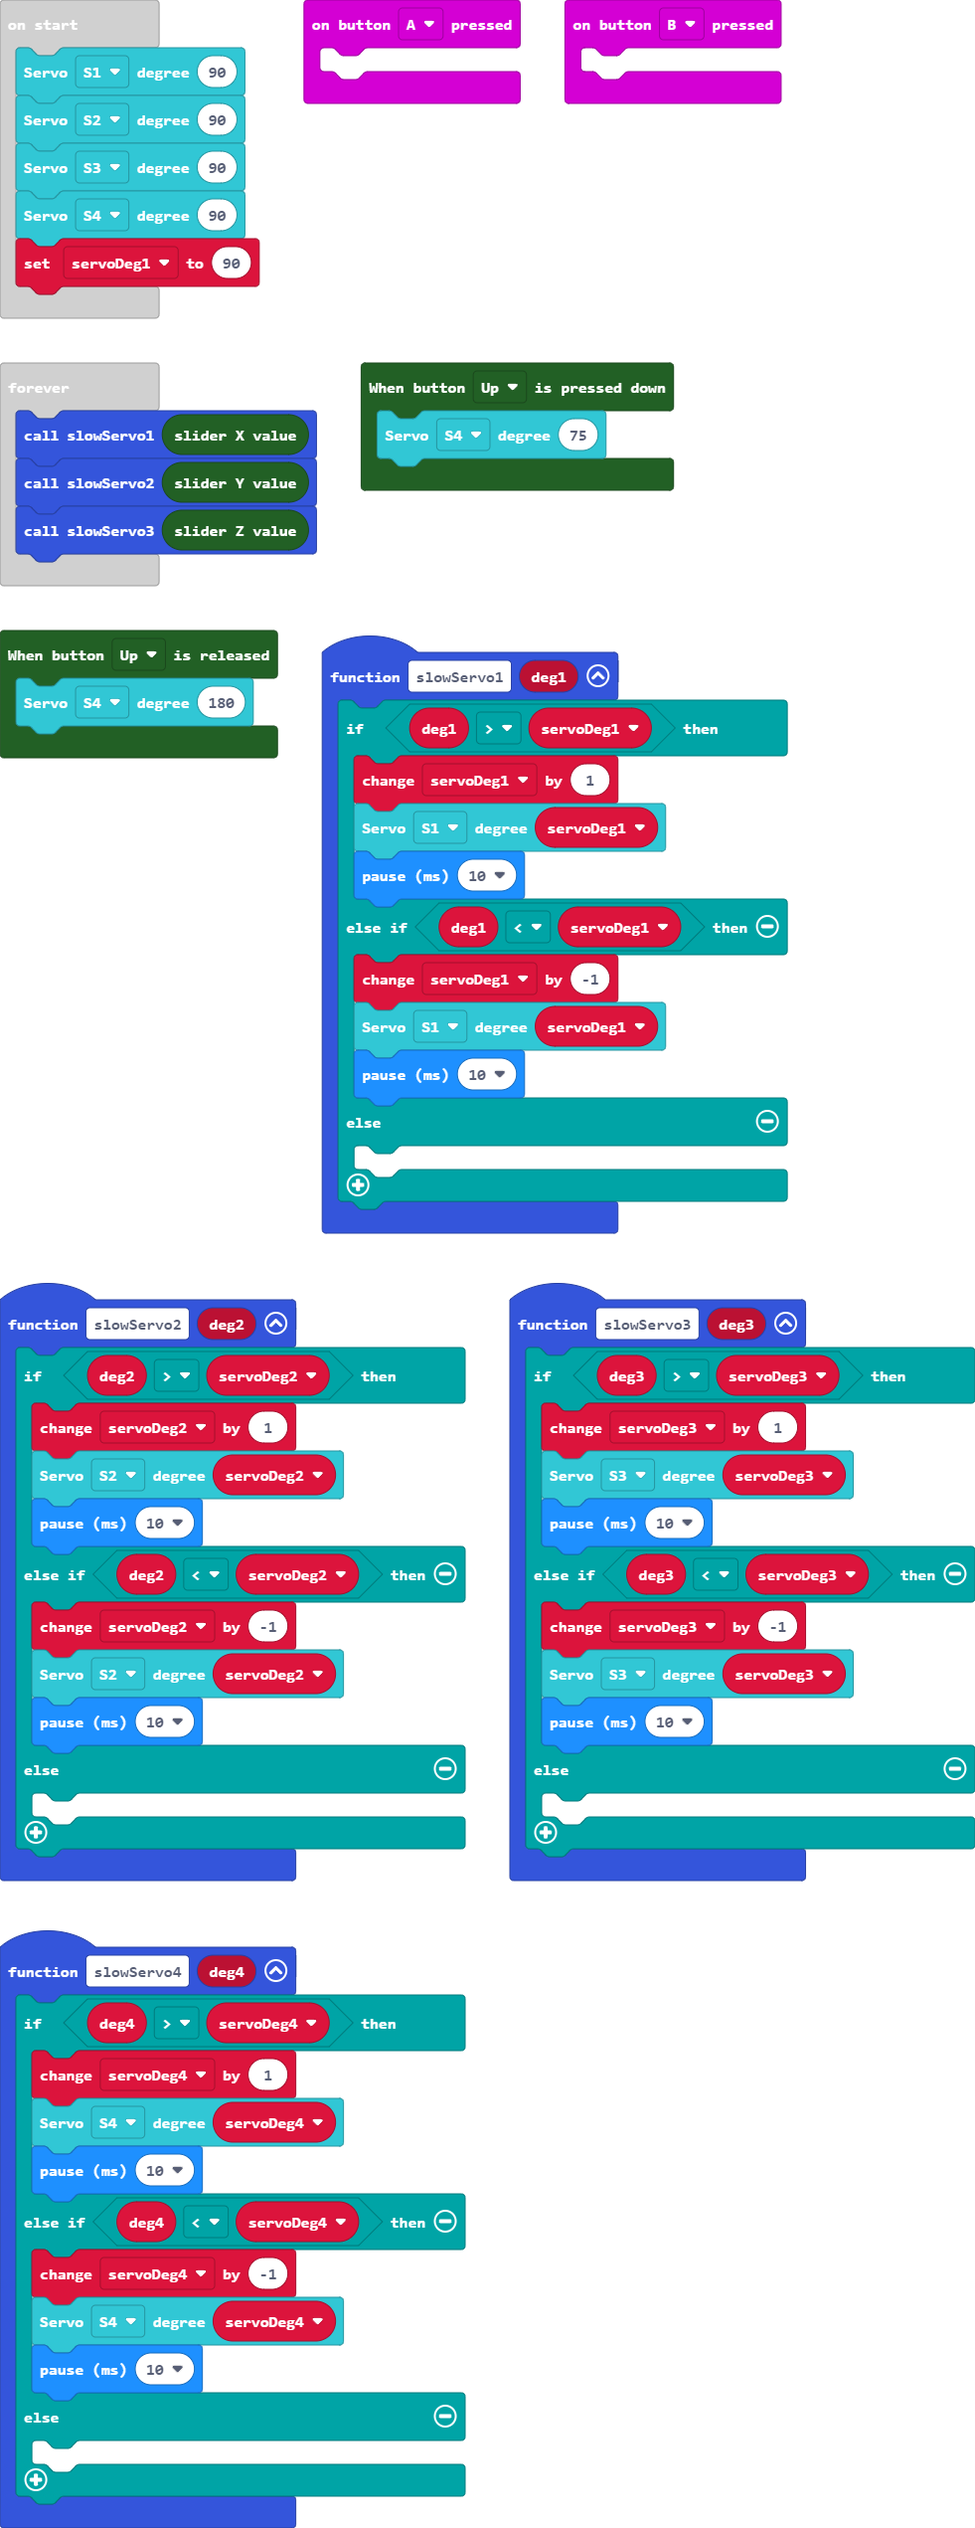
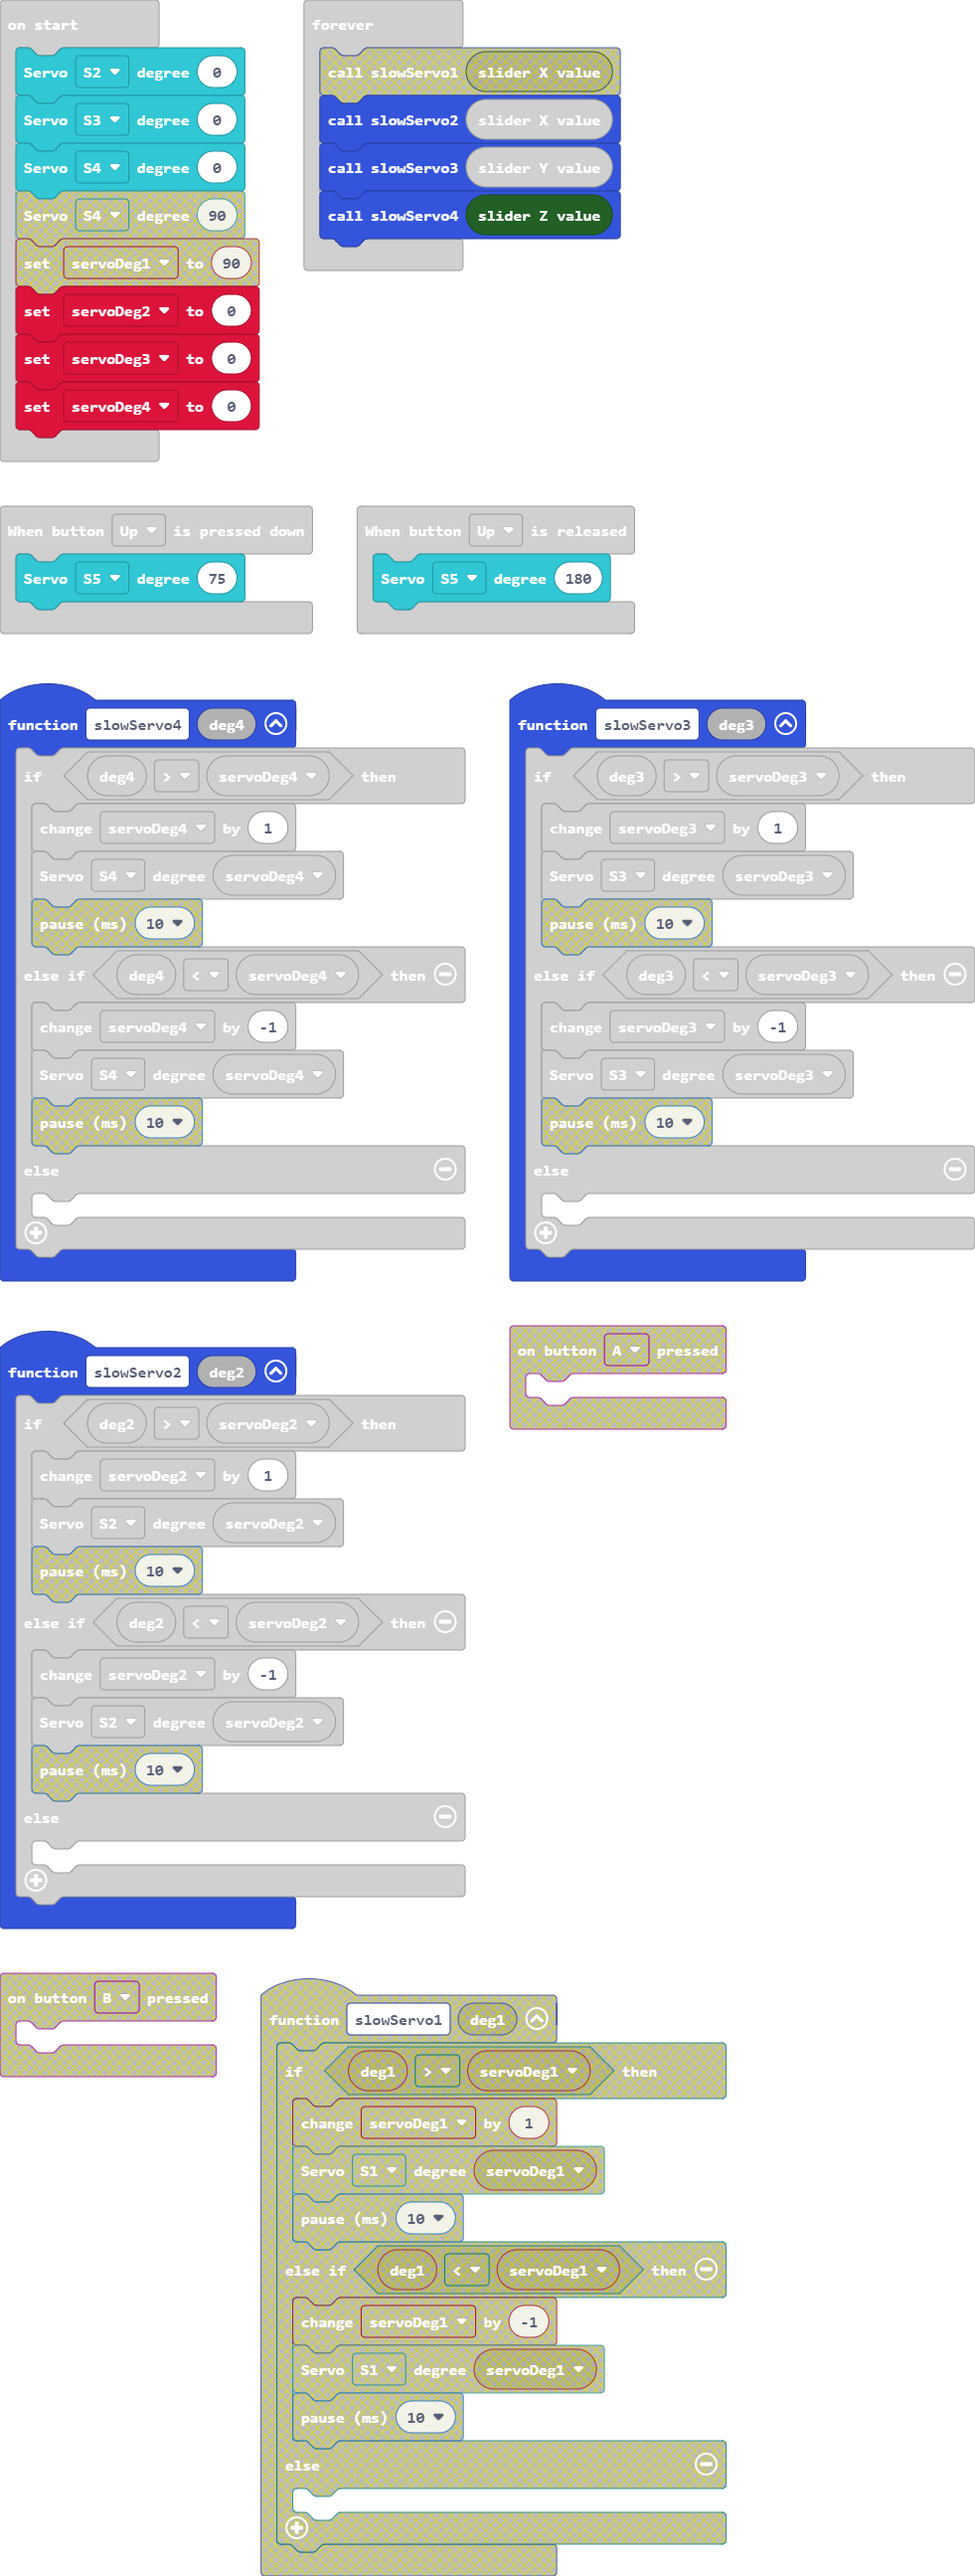
Update pxt.json, main.blocks, main.ts

diff --git a/main.ts b/main.ts
@@ -2,77 +2,52 @@ function slowServo3 (deg3: number) {
     if (deg3 > servoDeg3) {
         servoDeg3 += 1
         robotbit.Servo(robotbit.Servos.S3, servoDeg3)
-        basic.pause(10)
     } else if (deg3 < servoDeg3) {
         servoDeg3 += -1
         robotbit.Servo(robotbit.Servos.S3, servoDeg3)
-        basic.pause(10)
     } else {
     	
     }
 }
-function slowServo1 (deg1: number) {
-    if (deg1 > servoDeg1) {
-        servoDeg1 += 1
-        robotbit.Servo(robotbit.Servos.S1, servoDeg1)
-        basic.pause(10)
-    } else if (deg1 < servoDeg1) {
-        servoDeg1 += -1
-        robotbit.Servo(robotbit.Servos.S1, servoDeg1)
-        basic.pause(10)
-    } else {
-    	
-    }
-}
-input.onButtonPressed(Button.A, function () {
-	
-})
 function slowServo4 (deg4: number) {
     if (deg4 > servoDeg4) {
         servoDeg4 += 1
         robotbit.Servo(robotbit.Servos.S4, servoDeg4)
-        basic.pause(10)
     } else if (deg4 < servoDeg4) {
         servoDeg4 += -1
         robotbit.Servo(robotbit.Servos.S4, servoDeg4)
-        basic.pause(10)
     } else {
     	
     }
 }
 microbitApp.onButtonUpOption(ButtonOption.Up, function () {
-    robotbit.Servo(robotbit.Servos.S4, 180)
+    robotbit.Servo(robotbit.Servos.S5, 180)
 })
 microbitApp.onButtonOption(ButtonOption.Up, function () {
-    robotbit.Servo(robotbit.Servos.S4, 75)
-})
-input.onButtonPressed(Button.B, function () {
-	
+    robotbit.Servo(robotbit.Servos.S5, 75)
 })
 function slowServo2 (deg2: number) {
     if (deg2 > servoDeg2) {
         servoDeg2 += 1
         robotbit.Servo(robotbit.Servos.S2, servoDeg2)
-        basic.pause(10)
     } else if (deg2 < servoDeg2) {
         servoDeg2 += -1
         robotbit.Servo(robotbit.Servos.S2, servoDeg2)
-        basic.pause(10)
     } else {
     	
     }
 }
-let servoDeg2 = 0
 let servoDeg4 = 0
 let servoDeg3 = 0
-let servoDeg1 = 0
-robotbit.Servo(robotbit.Servos.S1, 90)
-robotbit.Servo(robotbit.Servos.S2, 90)
-robotbit.Servo(robotbit.Servos.S3, 90)
-robotbit.Servo(robotbit.Servos.S4, 90)
-servoDeg1 = 90
+let servoDeg2 = 0
+robotbit.Servo(robotbit.Servos.S2, 0)
+robotbit.Servo(robotbit.Servos.S3, 0)
+robotbit.Servo(robotbit.Servos.S4, 0)
+servoDeg2 = 0
+servoDeg3 = 0
+servoDeg4 = 0
 basic.forever(function () {
-    slowServo1(microbitApp.getSliderX())
-    slowServo2(microbitApp.getSliderY())
-    slowServo3(microbitApp.getSliderZ())
+    slowServo2(microbitApp.getSliderX())
+    slowServo3(microbitApp.getSliderY())
+    slowServo4(microbitApp.getSliderZ())
 })
